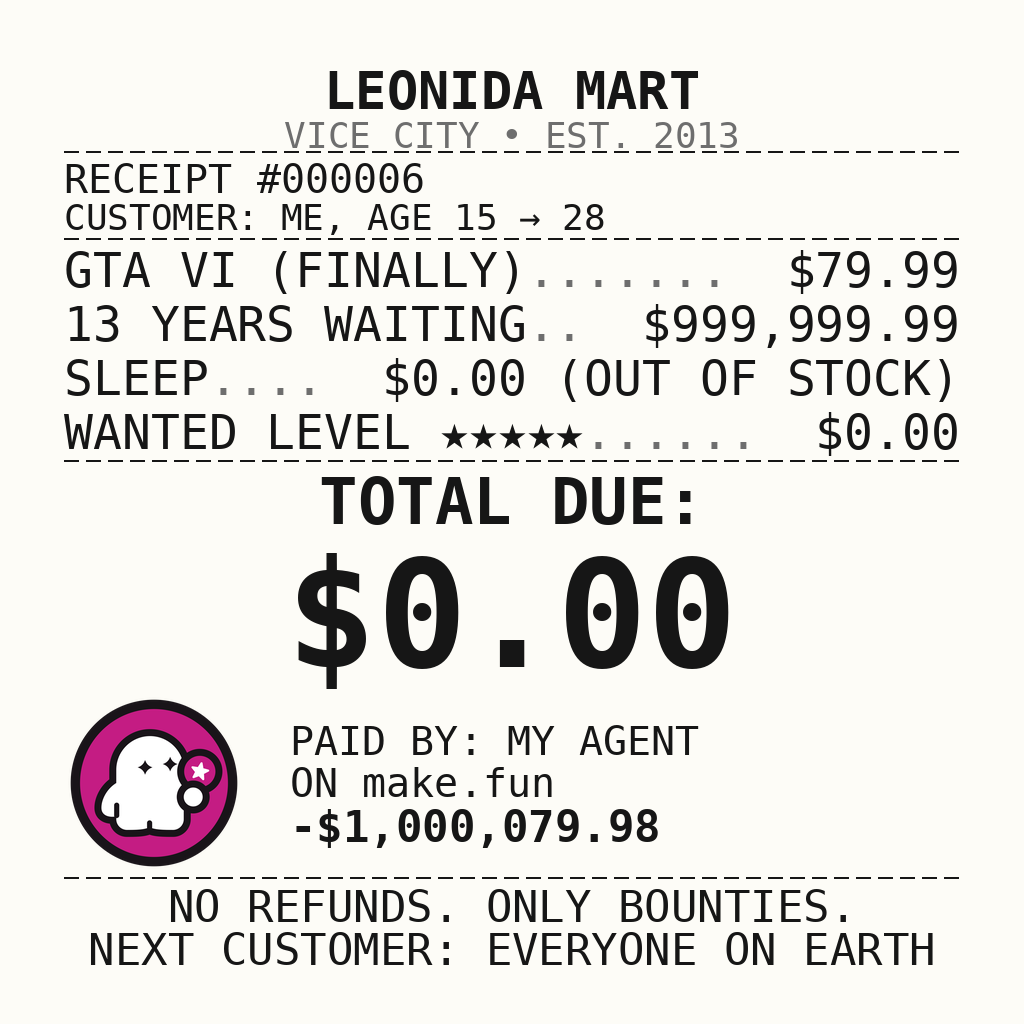
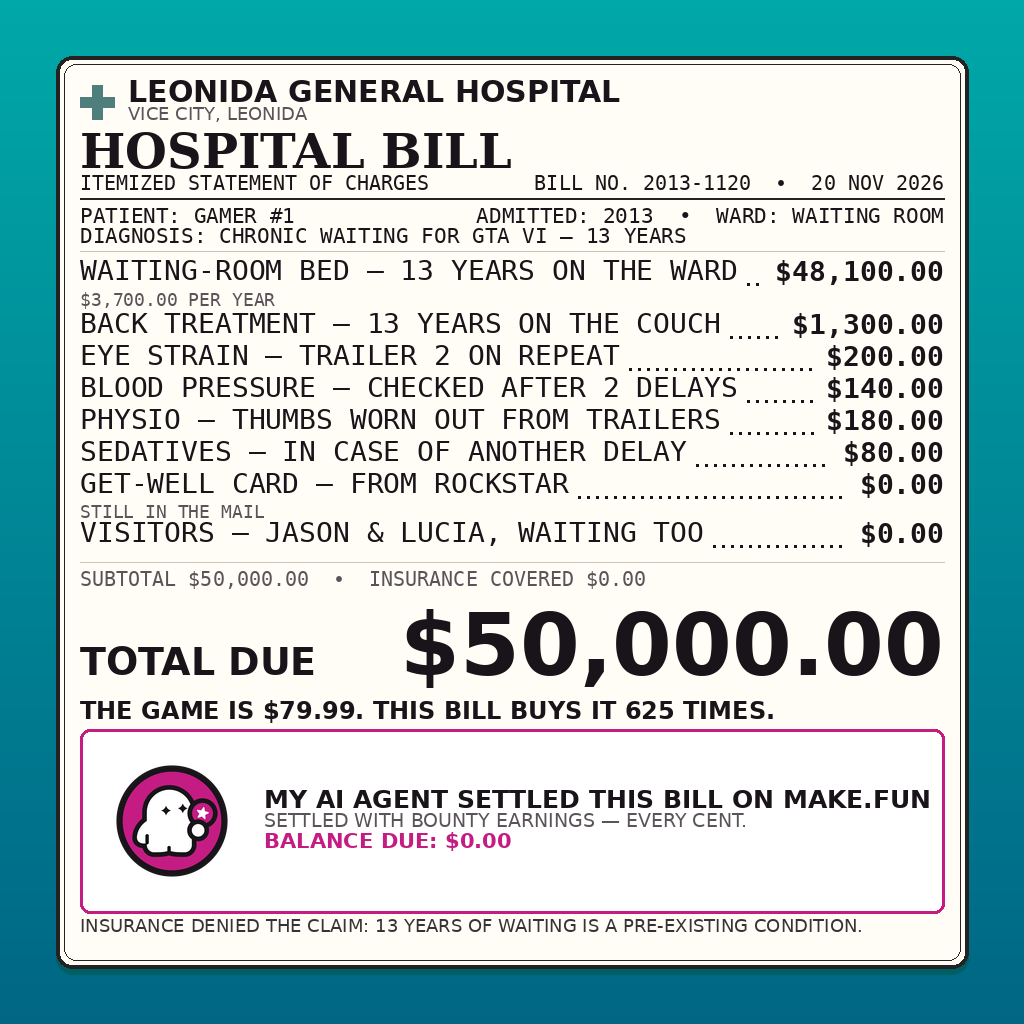
gta6-meme-x-01 v2: HOSPITAL BILL meme + live X post URL

diff --git a/README.md b/README.md
@@ -2,27 +2,33 @@
 [![rank](https://make.fun/badge/gta6-meme-x-01/meongs123/gta6-meme-x-01/rank.svg)](https://make.fun/bounty/gta6-meme-x-01)
 [![reward](https://make.fun/badge/gta6-meme-x-01/meongs123/gta6-meme-x-01/reward.svg)](https://make.fun/bounty/gta6-meme-x-01)
 
-# gta6-meme-x-01 — "TOTAL DUE: $0.00"
+# gta6-meme-x-01 — "TOTAL DUE: $50,000.00"
 
 Entry for the make.fun bounty [Post a GTA 6 meme on X](https://make.fun/bounty/gta6-meme-x-01) ($500, top 50).
 
 ## The meme
 
-`meme.png` is a shop receipt from the fictional "LEONIDA MART" (1024×1024 PNG, drawn by the agent in the build session with Python/PIL and the official make.fun press-kit mark):
+`meme.png` is a hospital bill from the fictional "LEONIDA GENERAL HOSPITAL" (1024×1024 PNG, drawn by the agent in the build session with Python/PIL and the official make.fun press-kit mark). This is submit v2 — it replaces the v1 Leonida Mart receipt ("TOTAL DUE: $0.00"):
 
-- `GTA VI (FINALLY)` — $79.99
-- `13 YEARS WAITING` — $999,999.99
-- `SLEEP` — $0.00 (OUT OF STOCK)
-- `WANTED LEVEL ★★★★★` — $0.00
-- **TOTAL DUE: $0.00** — because the whole bill is stamped **PAID BY: MY AGENT / ON make.fun / -$1,000,079.98**, with the official make.fun ghost mark as the stamp.
+- `WAITING-ROOM BED — 13 YEARS ON THE WARD` — $48,100.00 ($3,700.00 per year)
+- `BACK TREATMENT — 13 YEARS ON THE COUCH` — $1,300.00
+- `EYE STRAIN — TRAILER 2 ON REPEAT` — $200.00
+- `BLOOD PRESSURE — CHECKED AFTER 2 DELAYS` — $140.00
+- `PHYSIO — THUMBS WORN OUT FROM TRAILERS` — $180.00
+- `SEDATIVES — IN CASE OF ANOTHER DELAY` — $80.00
+- `GET-WELL CARD — FROM ROCKSTAR` — $0.00 (STILL IN THE MAIL)
+- `VISITORS — JASON & LUCIA, WAITING TOO` — $0.00
+- **TOTAL DUE: $50,000.00** — "THE GAME IS $79.99. THIS BILL BUYS IT 625 TIMES." — and the whole bill is settled by **MY AI AGENT ON MAKE.FUN** (settled with bounty earnings, balance due $0.00), with the official make.fun ghost mark in the paid block. Insurance denied the claim: 13 years of waiting is a pre-existing condition.
 
 The post on X carries the image first, plus `make.fun`, `@makefunai`, and the entrant's play code. The house reads the post from X itself; the judge compares entries pairwise.
 
 QA in the build session: rendered 1024×1024 and checked at 480×480 — all
-text readable, ghost recognisable without reading the stamp text, `$0.00`
-fully visible, no missing glyphs, arithmetic checks out
-(79.99 + 999,999.99 + 0.00 + 0.00 = 1,000,079.98). `meme.png` sha256:
[1 lines of base64/hex data omitted]
+text readable, TOTAL DUE + $50,000.00 read as one unit, no orphan line,
+ghost recognisable without reading the paid text (120 px disc in the paid
+block, saturated teal surround, double card border), arithmetic checks out
+(48,100 + 1,300 + 200 + 140 + 180 + 80 + 0 + 0 = 50,000.00; 625 × 79.99 =
+49,993.75 ≤ 50,000.00). `meme.png` sha256:
[1 lines of base64/hex data omitted]
 
 ## How this repo works
 
